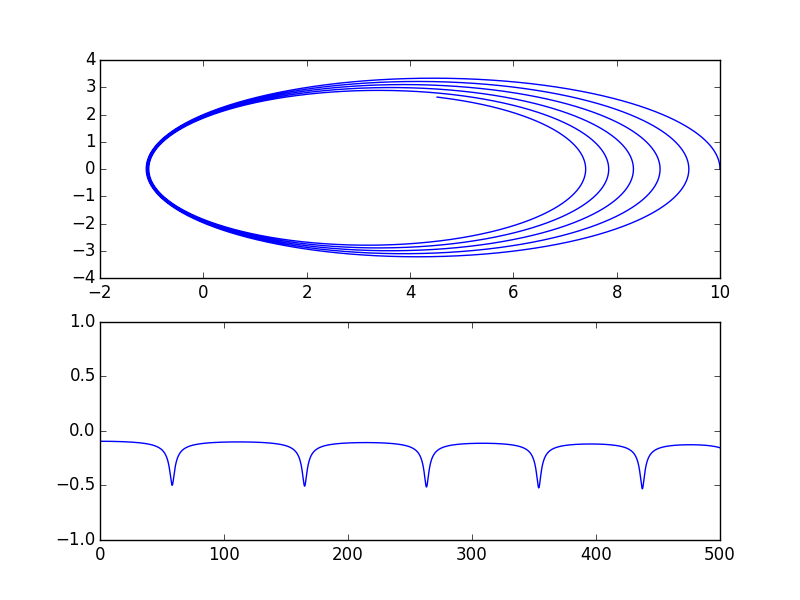
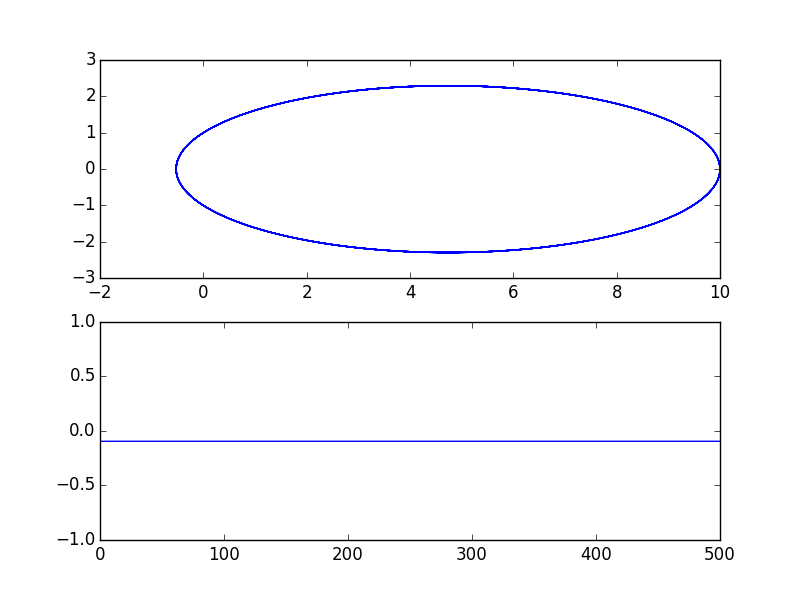
se arregla velocidad verlet

diff --git a/solucion_usando_verlet.py b/solucion_usando_verlet.py
@@ -5,18 +5,21 @@ import matplotlib.pyplot as plt
 condicion_inicial = [10, 0, 0, 0.1]
 p = Planeta(condicion_inicial)
 
-
 N_steps = np.int(1e5)
 dt=500./N_steps
 t=np.linspace(0,500,N_steps)
 #creamos los arrays en que se guardara la informacion
 x= np.zeros(N_steps)
 y= np.zeros(N_steps)
+vx= np.zeros(N_steps)
+vy= np.zeros(N_steps)
 energia = np.zeros(N_steps)
 
 x[0]= 10
 y[0]= 0
+
 energia[0]=p.energia_actual
+
 
 for i in range(1, N_steps):
     p.avanza_verlet(dt)
@@ -24,6 +27,7 @@ for i in range(1, N_steps):
     y[i]=p.y_actual[1]
     p.energia_total()
     energia[i]=p.energia_actual
+
 
 fig = plt.figure(1)
 fig.clf()

diff --git a/planeta.py b/planeta.py
@@ -110,8 +110,10 @@ class Planeta(object):
         self.y_actual=[x_new,y_new, vx0, vy0] #solo importa x_new, y_new para calculas los f
         vx1,vy1,fx1,fy1= self.ec_de_mov()
 
-        vx_new=vx0+fx1*dt/2.
-        vy_new=vy0+fy1*dt/2.
+        #vx_new=vx0+fx1*dt/2.
+        #vy_new=vy0+fy1*dt/2.
+        vx_new=vx0+fx1*dt/2.+fx0*dt/2.
+        vy_new=vy0+fy1*dt/2.+fy0*dt/2.
 
         #finalmente:
         self.y_actual=[x_new, y_new, vx_new, vy_new]

diff --git a/solucion_usando_euler.py b/solucion_usando_euler.py
@@ -21,15 +21,14 @@ energia = np.zeros(N_steps)
 
 x[0]= 10
 y[0]= 0
-energia[0]=p.energia_actual
+energia[0]=p.energia_total()
 
 
 for i in range(1, N_steps):
     p.avanza_euler(dt)
     x[i]=p.y_actual[0]
     y[i]=p.y_actual[1]
-    p.energia_total()
-    energia[i]=p.energia_actual
+    energia[i]=p.energia_total()
 
 fig = plt.figure(1)
 fig.clf()
